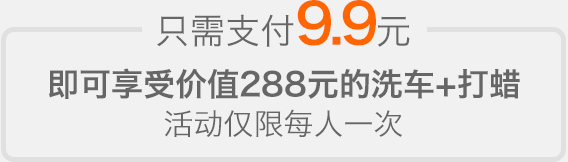
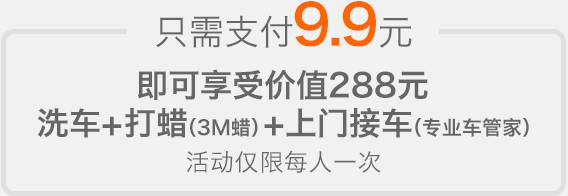
加上上门接车

Changed region(s): [[0.0599, 0.3395, 0.9577, 0.8951], [0.2694, 0.0, 0.7482, 0.3086]]

diff --git a/webapp/activities/4/external_sale.html b/webapp/activities/4/external_sale.html
@@ -113,7 +113,7 @@
             function pay(id) {
 
                 getStore().set('activity_record_id', id);
-                getStore().set('subject', '养爱车-9.9元 洗车+打蜡');
+                getStore().set('subject', '养爱车-9.9元 洗车+打蜡+上门接车');
                 getStore().set('success_url', '/activities/4/external_sale_pay_success.html');
                 getStore().set('cancel_url', '/activities/4/external_sale_pay_fail.html');
 
